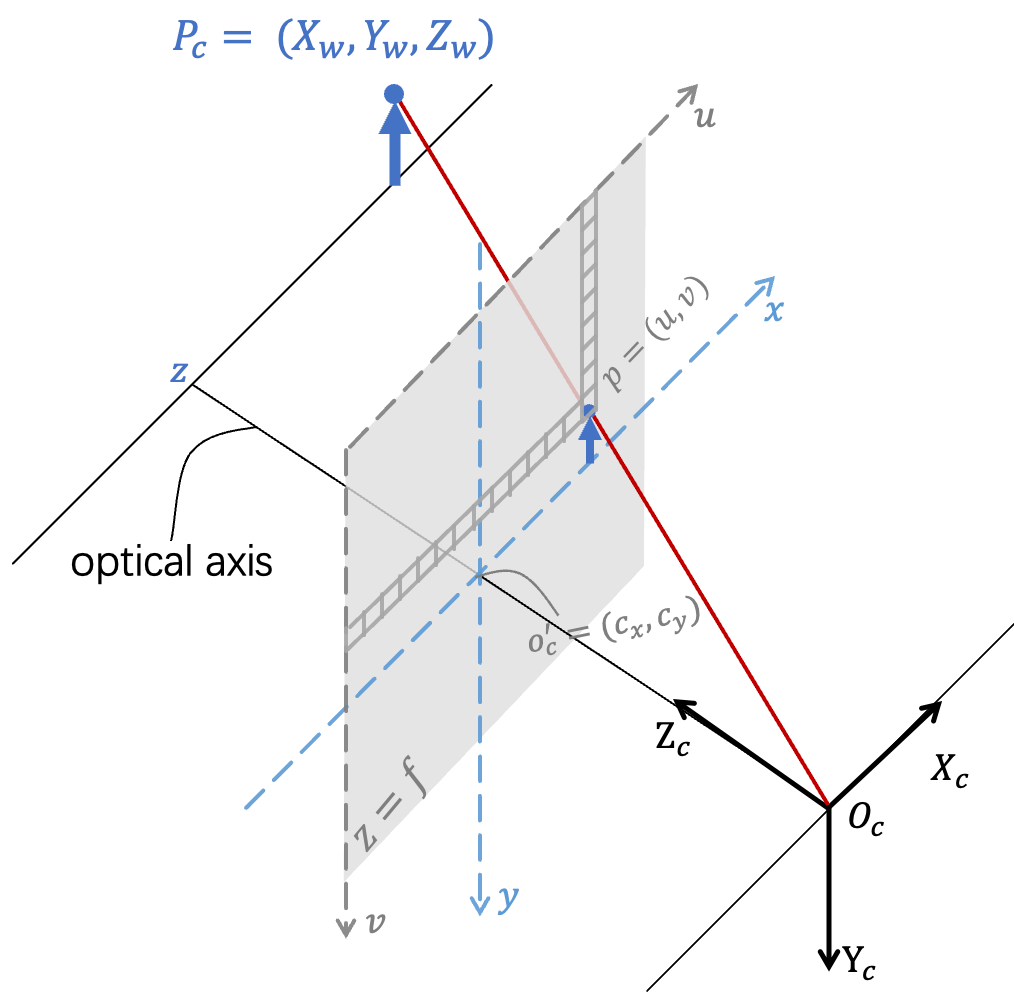
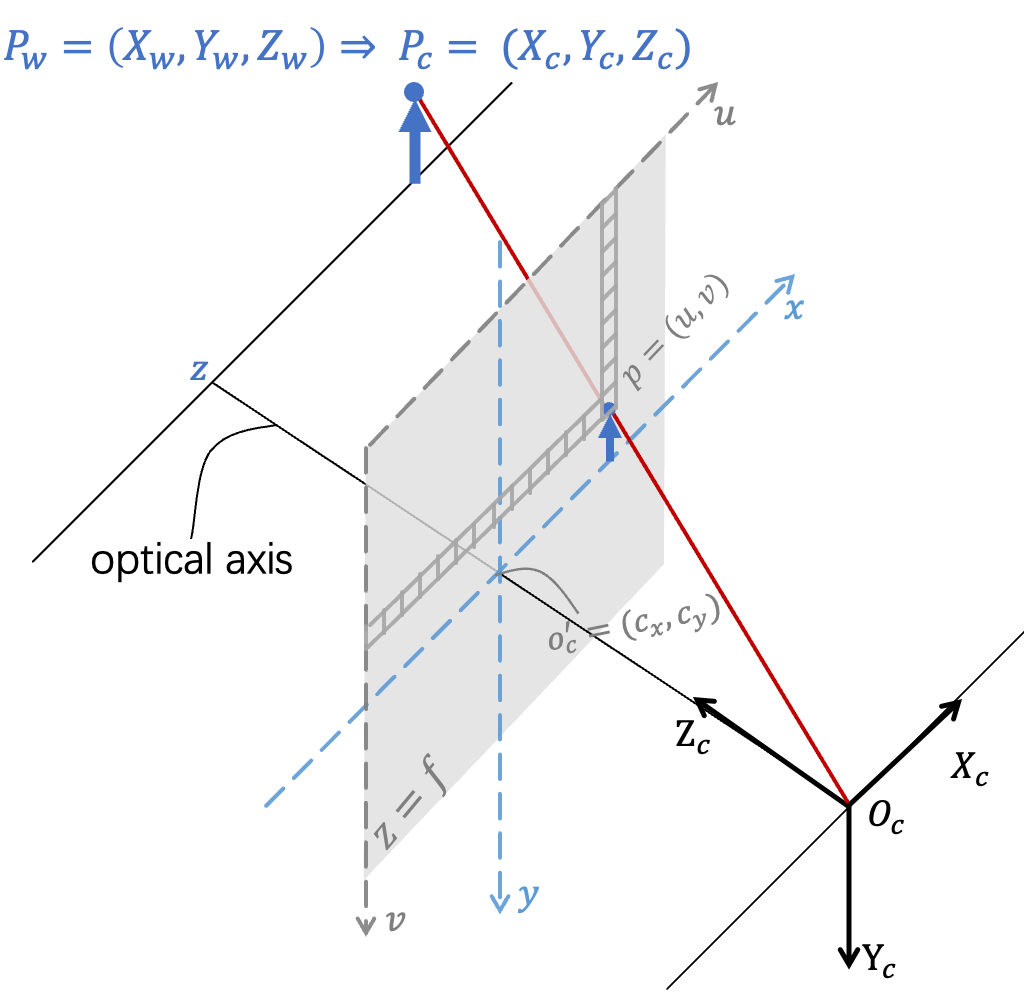
update pinhole model

diff --git a/_posts/2022-03-24-vslam14c-5th.md b/_posts/2022-03-24-vslam14c-5th.md
@@ -52,17 +52,42 @@ $$
 
 ### 2.1 针孔相机模型
 
-知道了整个建模的框架后，我们要实际看下计算逻辑。相机模型中，最简单/经典的就是针孔相机模型，也即义务教育阶段就学习过的
-小孔成像。
+知道了整个建模的框架后，我们要实际看下计算逻辑。相机模型中，最简单/经典的就是针孔相机模型，也即小孔成像。
 
-在 [opencv-calibration][opencv_cali] 中有一张[针孔相机模型图][pinhole_model]，非常漂亮地解释了整个过程。
-这里我照着拿PPT重画了一下（纸上也画了下），强化理解记忆：
+下图粗略地可视化了整个过程：
 
+<div align="center">
+  <img src="/assets/posts/vslam/14-ch5/pinhole_camera_model.png" alt="pinhole camera model"
+      width="450">
+  <p>图1： 针孔相机模型</p>
+</div>
 
+> 从 [opencv-calibration][opencv_cali] 中抄了一张[针孔相机模型图][pinhole_model]，对齐书上的符号。
+相比书上的描述，少了映射到归一化平面步骤。
+
+具体过程如下：
+
+1. 世界坐标系下的点 $P_w = (X_w, Y_w, Z_w)$，变换到相机坐标系下的点 $P_c = (X_c, Y_c, Z_c)$
+   
+   点还是那个点，只是坐标系换了——这对应到一个旋转、平移变换（第三讲内容）。
+   
+   $$
+    P_c = RP_w + t \Rightarrow P_c = TP_w
+   $$
+   
+   > $T$ 是变换矩阵 $\begin{bmatrix} 
+    R & t \\ 
+    0^T & 1 
+   \end{bmatrix}$，$TP_w$ 中的 $P_w$ 实际是齐次坐标 $\begin{bmatrix}
+    P_w \\
+    1
+   \end{bmatrix}$ 按书中规则的简写。  
+   $T$ 咋求的？ 我现在也不知道……
+
+2. 
 
 
 ### 2.2 （镜头）畸变
-
 
 https://en.wikipedia.org/wiki/Distortion_(optics)#cite_note-brown-4
 
